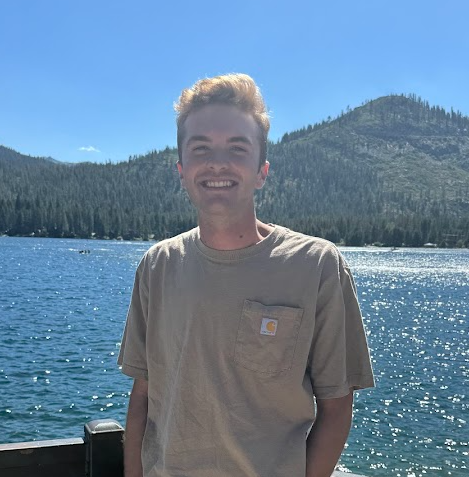
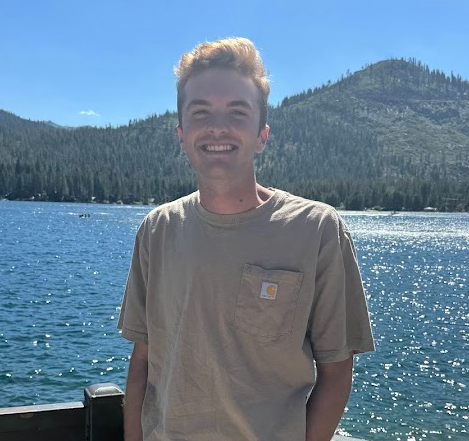
Added home page

diff --git a/aboutme/index.html b/aboutme/index.html
@@ -7,8 +7,13 @@
 </head>
 <body>
     <h1>About Me</h1>
-    <img alt="Me" src="images/Screenshot 2024-09-18 155950.png">
+    <img alt="Me" src="images/Screenshot 2024-09-18 155950 resized.png">
     <h2>Matt Pollock</h2>
-    <p>Hey Class! My name is Matt and I am from Roseville California. This is my 4th semesester at BYU Idaho and I am excited to learn about HTML this transfer. I am a crybersecurity major but my programming skills are pretty lackluster. Some of my hobbies are camping, hiking, rock climbing, roller skating, and I just started skateboarding. I served a mission in the Kentucky Louisville mission and I returned home 6 months ago. This is going to be a great semester!</p>
+    <p>Hey Class! My name is Matt and I am from Roseville California. 
+        This is my 4th semesester at BYU Idaho and I am excited to learn about HTML this transfer. 
+        I am a crybersecurity major but my programming skills are pretty lackluster. 
+        Some of my hobbies are camping, hiking, rock climbing, roller skating, and I just started skateboarding. 
+        I served a mission in the Kentucky Louisville mission and I returned home 6 months ago. 
+        This is going to be a great semester!</p>
 </body>
 </html>

diff --git a/practice.html b/practice.html
@@ -1,0 +1,35 @@
+<!DOCTYPE html>
+<html>
+
+<head>
+    <title>BYUI</title>
+    <title>BYUI</title>
+    <link rel="stylesheet" href="styles/styles.css" />
+</head>
+
+<body>
+    <!-- This header is sick  -->
+    <!-- jk lol -->
+    <header>
+        <nav>
+            <a href="byui.html">Home</a>
+            <a href="https://www.churchofjesuschrist.org">Church of Jesus Christ</a>
+            <a href="https://www.churchofjesuschrist.org/temples">Temples</a>
+            <a href="https://www.churchofjesuschrist.org/study/scriptures">Scriptures</a>
+        </nav>
+    </header>
+    <main>
+        <h1>Brigham Young University Idaho</h1>
+        <img src="https://byuiscroll.org/wp-content/uploads/2024/09/DSC08033-440x264.jpeg" alt="BYUI Campus" />
+        <p>
+            BYU-Idaho is a comfortable place to learn and grow as a disciple of
+            Jesus Christ because students, faculty, and employees share a commitment
+            to live the gospel.
+        </p>
+    </main>
+    <footer>
+        <p>My First Web Page 20XX &copy</p>
+    </footer>
+</body>
+
+</html>

diff --git a/styles/styles.css b/styles/styles.css
@@ -1,0 +1,35 @@
+/* All text is centered on this page
+*/
+body {
+    text-align: center;
+    font-family: 'Trebuchet MS', 'Lucida Sans Unicode', 'Lucida Grande', 'Lucida Sans', Arial, sans-serif;
+}
+
+nav {
+    background-color: rgb(70, 130, 180);
+    padding: 10px;
+}
+
+a {
+    color: white;
+    margin: 40px;
+    background-color: rgb(0, 0, 0);
+}
+
+h1 {
+    color: steelblue;
+}
+
+img {
+    width: 800px;
+    border: 4px solid steelblue;
+}
+
+p {
+    padding: 10px;
+}
+
+footer {
+    background-color: steelblue;
+    color: white;
+}

diff --git a/index.html b/index.html
@@ -3,7 +3,7 @@
 <head>
     <meta charset="UTF-8">
     <meta name="viewport" content="width=device-width, initial-scale=1.0">
-    <title>WDD130 Home Page</title>
+    <title>Matthew Pollock's WDD130 Home Page</title>
 </head>
 <body>
     <h1>Welcome to WDD130 Web Projects</h1>
